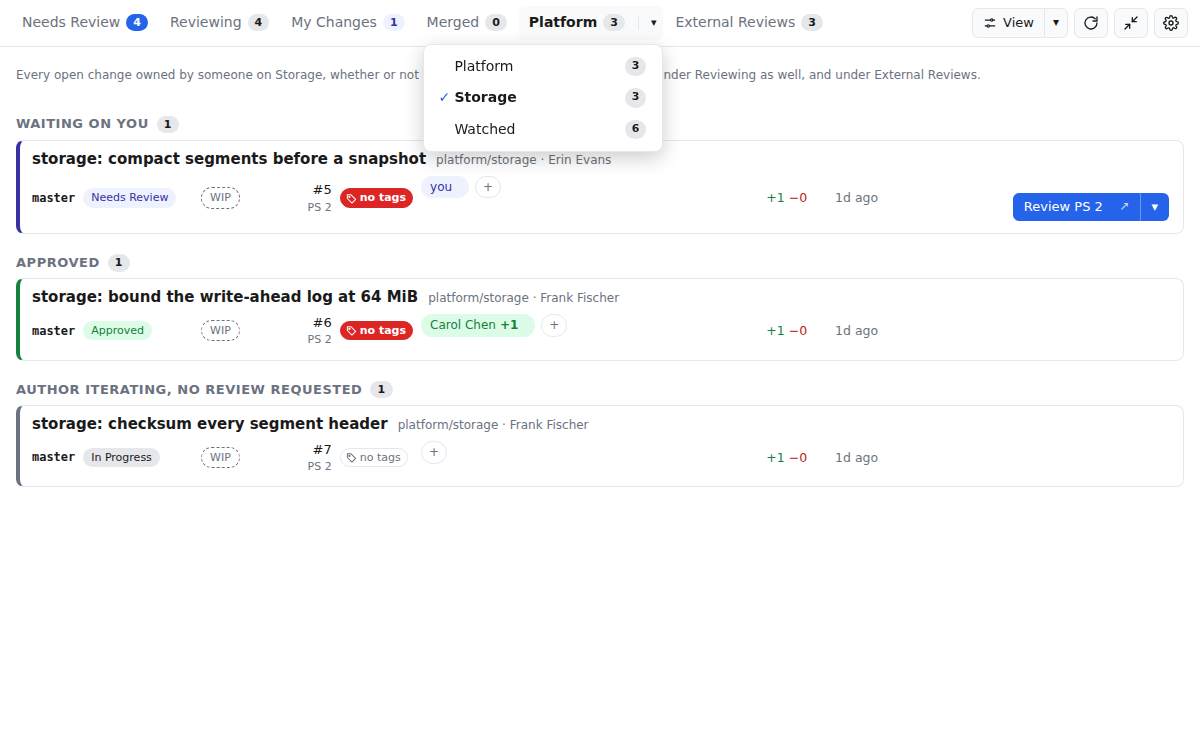
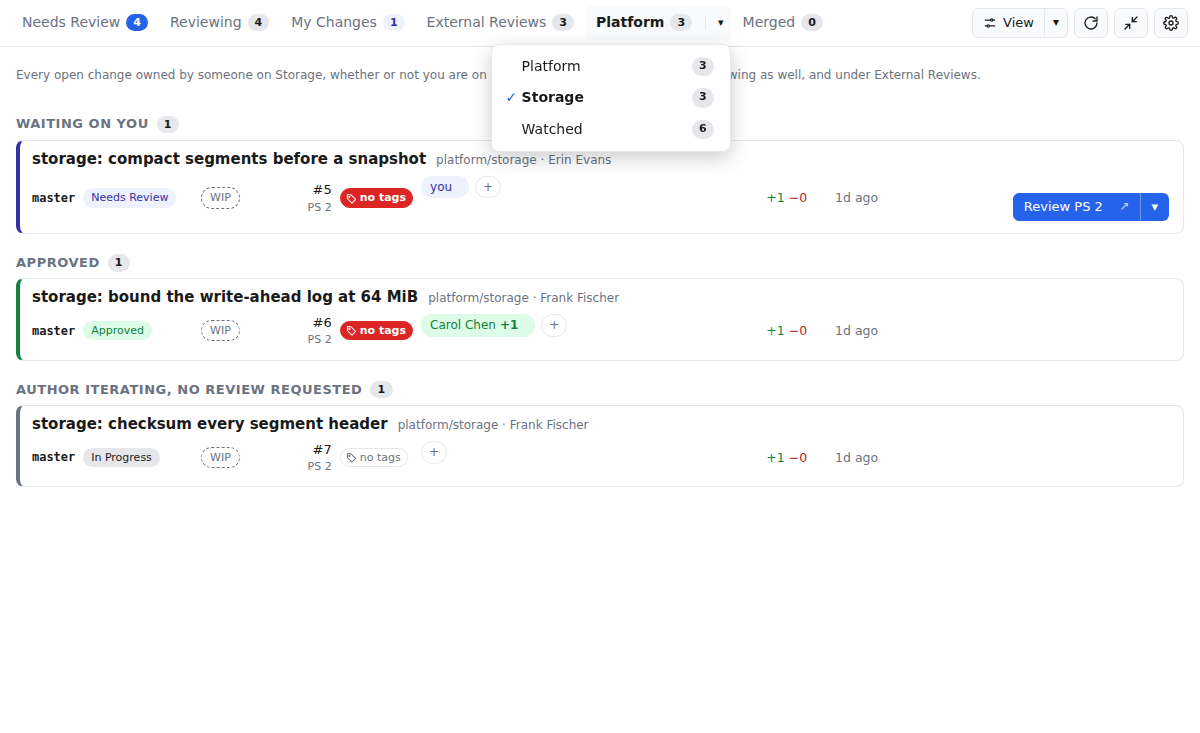
Put External Reviews and the team tab before Merged

Changed region(s): [[0.3392, 0.0, 0.6783, 0.2401]]

diff --git a/src/renderer/src/components/Board.tsx b/src/renderer/src/components/Board.tsx
@@ -47,10 +47,10 @@ export const TABS: Tab[] = [
   { id: 'needs-my-review', label: 'Needs Review', short: 'To review' },
   { id: 'reviewing', label: 'Reviewing', short: 'Reviewing' },
   { id: 'mine', label: 'My Changes', short: 'Mine' },
-  { id: 'merged', label: 'Merged', short: 'Merged' },
+  { id: 'external-reviews', label: 'External Reviews', short: 'External' },
   // The team tab is named after the user's team, or Watched; the label here is a stand-in (see teamTabLabel).
   { id: 'team-reviews', label: 'Team', short: 'Team' },
-  { id: 'external-reviews', label: 'External Reviews', short: 'External' },
+  { id: 'merged', label: 'Merged', short: 'Merged' },
 ]
 
 /** The team tab exists once a team is watched, which the user's own always is; External Reviews only with the user's own team. */

diff --git a/src/shared/model.ts b/src/shared/model.ts
@@ -778,7 +778,7 @@ export function tabCounts(views: ChangeView[], teamPick?: TeamPick): Record<TabI
   return c
 }
 
-const TAB_IDS: readonly TabId[] = ['needs-my-review', 'reviewing', 'mine', 'merged', 'team-reviews', 'external-reviews']
+const TAB_IDS: readonly TabId[] = ['needs-my-review', 'reviewing', 'mine', 'external-reviews', 'team-reviews', 'merged']
 
 /** One colored part of a tab's count pill, left of the grey total. */
 export interface TabSegment {

diff --git a/README.md b/README.md
@@ -32,9 +32,9 @@ application remembers the sort; the search and filter last for the session.
 | Needs Review | The author asked for a review of the current patch set. You are a primary reviewer. You did not vote on that patch set. The WIP status has no effect. Two sections: "Pass Around" for reviews you do on your own, "In Person" for reviews done together with the author. The count is split the same way; only the pass-around part is in the accent colour. |
 | Reviewing | All open changes on which you are a reviewer, primary or not, in groups by state. |
 | My Changes | Your open changes, in groups by state, with the actions of the owner. The count gains a red segment for changes that need work and a green one for approved changes. Private changes are in one section at the bottom, whatever their state. Your own are the only private changes the application shows: a private change of another author is never listed, even when you are a reviewer or CC on it. |
-| Merged | Approved changes that the author asked you, by name, to merge, above the changes that Gerrit merged in the last 14 days. The count gains a green segment while anything waits on you to merge. |
-| Team tab | Named after your team, or "Watched". Every open change owned by someone else on a watched team, in groups by state, whether or not you are on it. With several watched teams, a caret shows one at a time or all together. |
 | External Reviews | The open changes you are on whose owner is not on your team, in groups by state. Only when you picked your team. |
+| Team tab | Named after your team, or "Watched". Every open change owned by someone else on a watched team, in groups by state, whether or not you are on it. With several watched teams, a caret shows one at a time or all together. |
+| Merged | Approved changes that the author asked you, by name, to merge, above the changes that Gerrit merged in the last 14 days. The count gains a green segment while anything waits on you to merge. |
 
 ![Needs Review](docs/screenshots/needs-my-review.png)
 
